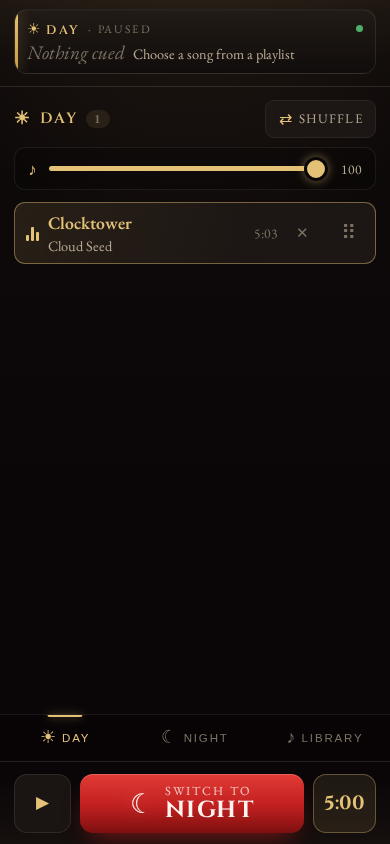
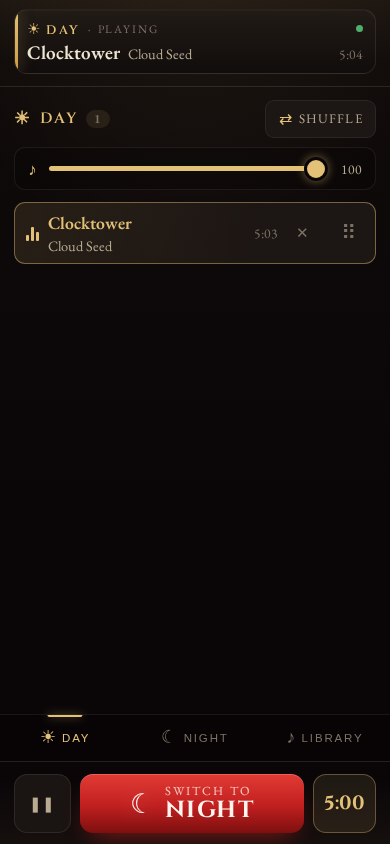
Play a song in the Remote timer E2E so the now-playing shows a running track

Changed region(s): [[0.0615, 0.0308, 0.7385, 0.0924], [0.0615, 0.9242, 0.1231, 0.9858], [0.8923, 0.0616, 0.9231, 0.0924]]

diff --git a/Player.E2E.Tests/CrossSurfaceTests.cs b/Player.E2E.Tests/CrossSurfaceTests.cs
@@ -27,8 +27,9 @@ public class CrossSurfaceTests
 		await Verify(await remote.ScreenshotAsync(StillFrame), "png");
 	}
 
-	// Starting the timer from the Remote: the Player raises its countdown medallion
-	// and the Remote's transport shows the running clock.
+	// Starting the timer from the Remote while a song plays: the Player raises its
+	// countdown medallion and the Remote's transport shows the running clock over a
+	// now-playing track.
 	[Test, NotInParallel(Order = 2)]
 	public async Task Timer_StartedFromRemote()
 	{
@@ -40,6 +41,12 @@ public class CrossSurfaceTests
 		await EnterTownAsync(player);
 		await EnsurePhaseAsync(player, night: false);
 		await OpenRemoteAsync(remoteContext, remote);
+
+		// Start playback so the now-playing line shows a running track. The transport
+		// button toggles, so drive the play command directly to land on "playing"
+		// regardless of the session state inherited from a prior test.
+		await PostCommandAsync(remote, "/commands/play");
+		await remote.Locator(".play.playing").WaitForAsync();
 
 		// Default stepper is 5 minutes → a 300s timer.
 		await remote.Locator(".timerbtn").ClickAsync();
